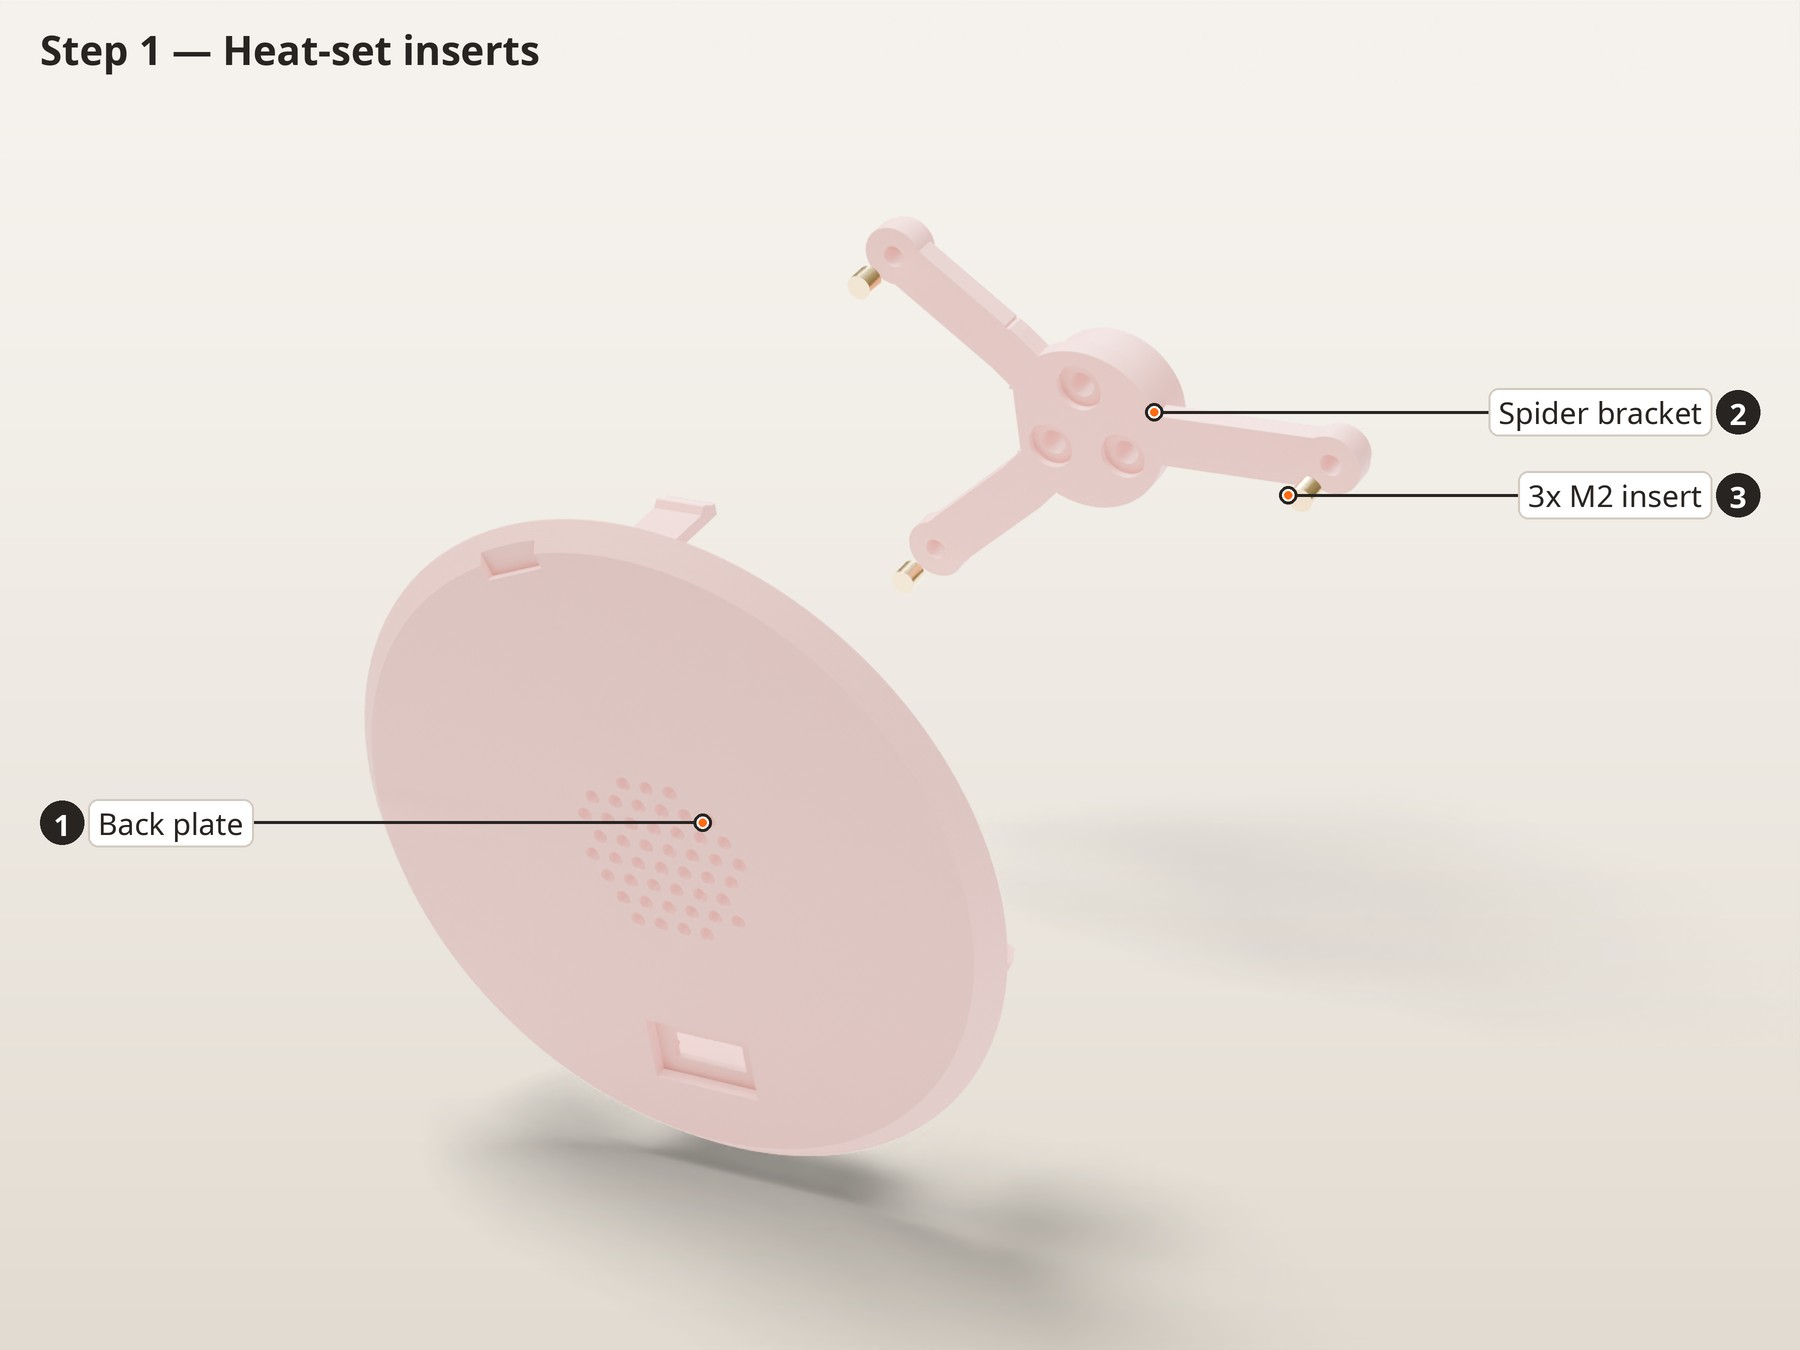
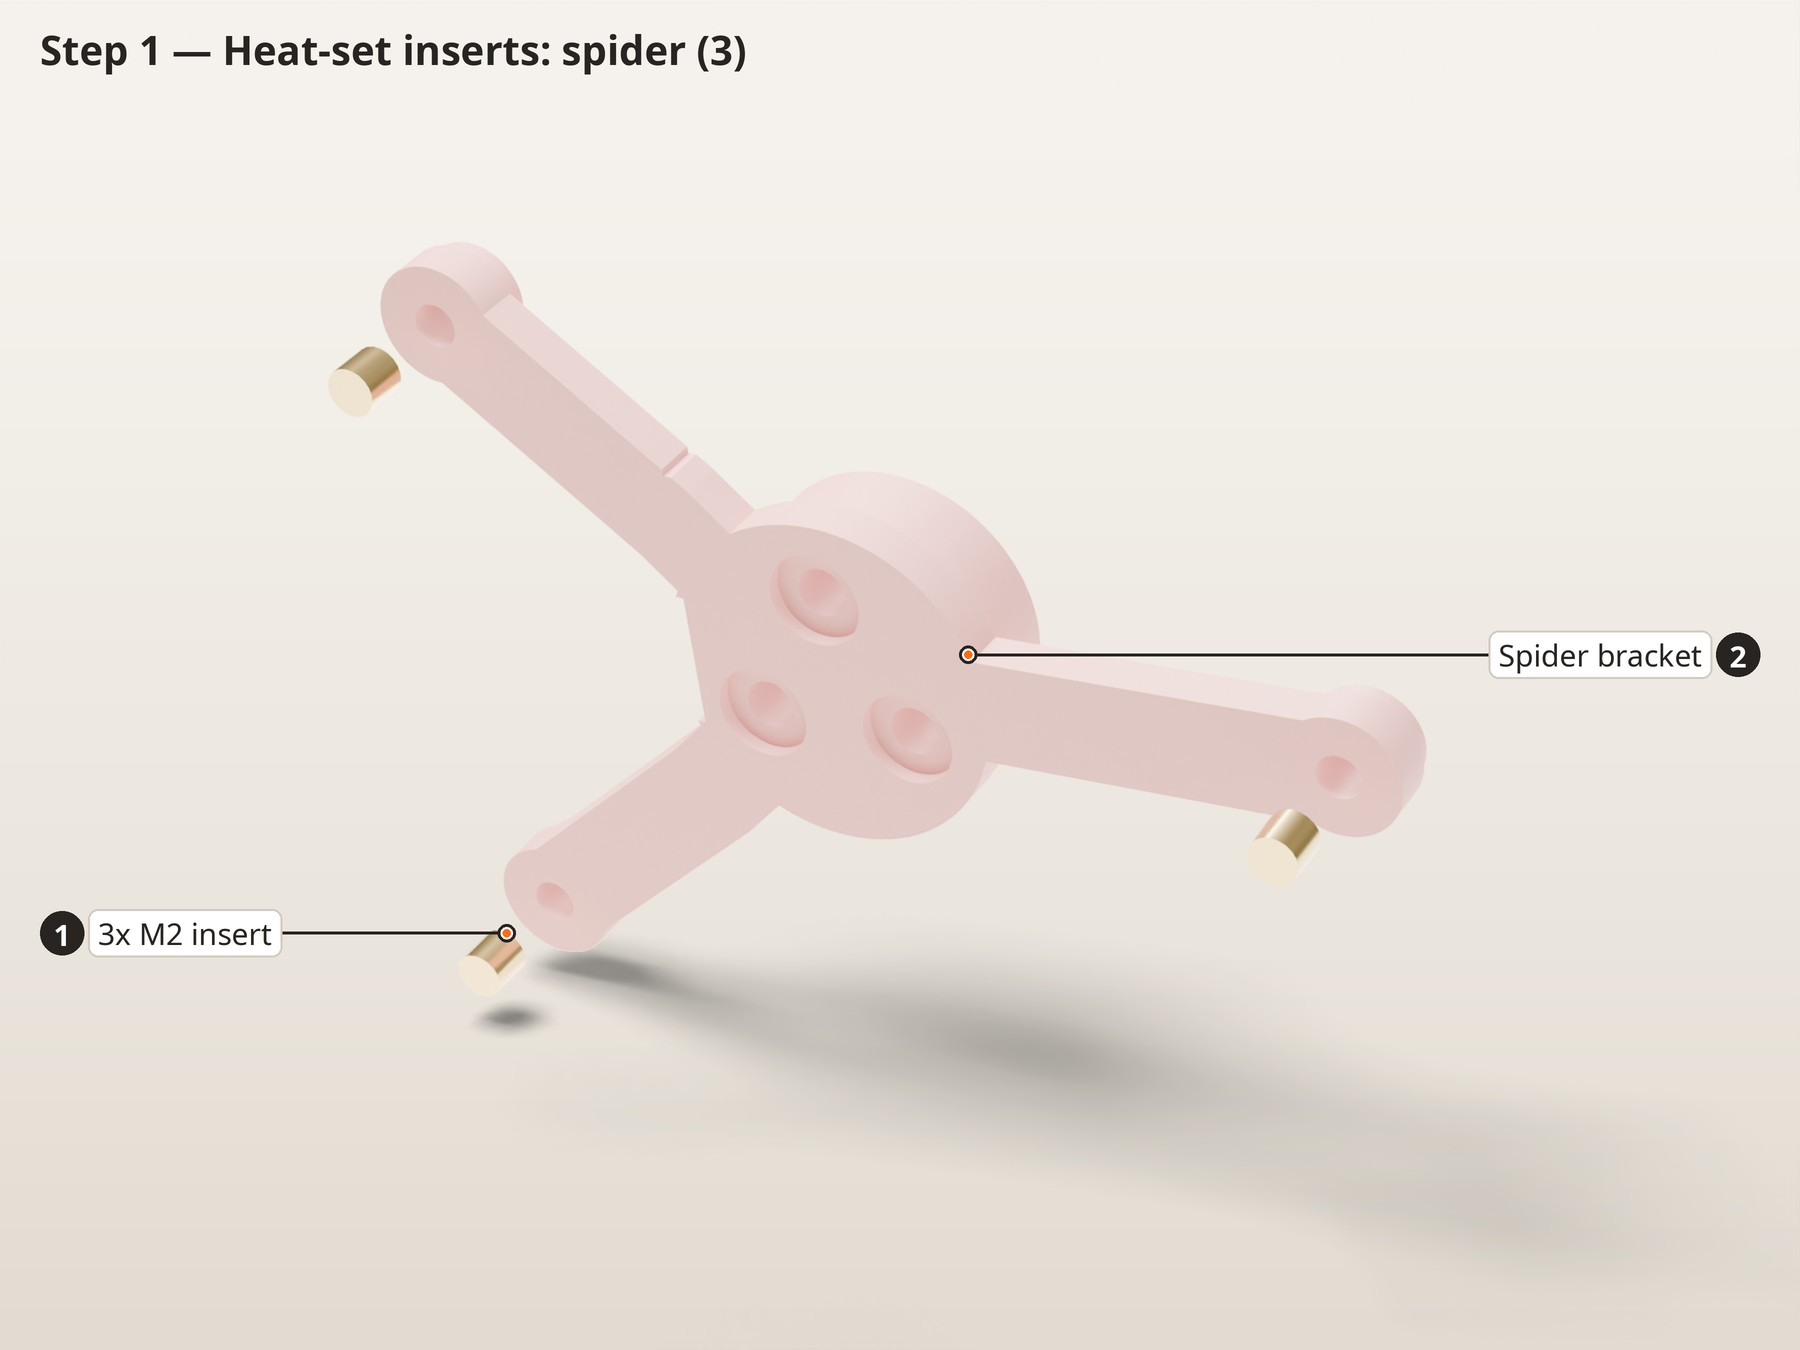
Assembly step 1: show the back plate inserts clearly
The old render looked at the back plate from outside, so its two speaker
bosses and inserts were hidden and unlabelled. Step 1 now has two pictures:
the spider from below, and the back plate's inside face with arrows into
the bosses.

diff --git a/docs/assembly/index.html b/docs/assembly/index.html
@@ -93,9 +93,9 @@ footer{margin-top:56px; padding-top:20px; border-top:1px solid var(--rule); colo
       </section>
       <section class="step" id="step-1">
   <header><span class="num">01</span><h2>Heat-set inserts</h2></header>
-  <figure><img src="img/step_01.jpg" alt="Step 1: Heat-set inserts" loading="lazy" width="1800" height="1350"></figure>
-  <div class="body"><div><h3 class="eyebrow">In this picture</h3><ol class="legend"><li><span class="b">1</span>Back plate</li><li><span class="b">2</span>Spider bracket</li><li><span class="b">3</span>3x M2 insert</li></ol></div>
-    <div><ol class="do"><li>Print the insert test block from plate 2 first. Set one insert in each hole and note which hole (1, 2 or 3 dots) holds best. The middle one is the default; if another fits better, change <code>M2_INSERT_D</code> in <code>cad/voice_clock.py</code> and reprint.</li><li>Set the iron to 230–240 °C for PETG (190–200 °C for PLA). Press each insert straight in until it is flush, then hold a flat tool on it for a few seconds while it cools.</li><li>Spider: 3 × M2 in the underside at the end of each arm. Back plate: 2 × M2 in the speaker bosses.</li><li>That's all of them. The shells and back plate snap together, so they have no inserts.</li></ol><div class="check"><strong>Check before moving on</strong>Run a screw into each insert by hand. It should start straight and stop on the thread, not on a blob of plastic.</div></div>
+  <figure><img src="img/step_01.jpg" alt="Step 1: Heat-set inserts" loading="lazy" width="1800" height="1350"></figure><figure><img src="img/step_01b.jpg" alt="Step 1: Heat-set inserts" loading="lazy" width="1800" height="1350"></figure>
+  <div class="body"><div><h3 class="eyebrow">In this picture</h3><ol class="legend"><li><span class="b">1</span>3x M2 insert</li><li><span class="b">2</span>Spider bracket</li></ol></div><div><h3 class="eyebrow">In this picture</h3><ol class="legend"><li><span class="b">1</span>2x M2 insert</li><li><span class="b">2</span>Back plate</li></ol></div>
+    <div><ol class="do"><li>Print the insert test block from plate 2 first. Set one insert in each hole and note which hole (1, 2 or 3 dots) holds best. The middle one is the default; if another fits better, change <code>M2_INSERT_D</code> in <code>cad/voice_clock.py</code> and reprint.</li><li>Set the iron to 230–240 °C for PETG (190–200 °C for PLA). Press each insert straight in until it is flush, then hold a flat tool on it for a few seconds while it cools.</li><li>Spider (first picture): 3 × M2 in the underside at the end of each arm.</li><li>Back plate (second picture): 2 × M2 in the two round speaker bosses on the inside face, either side of the grille. Don't skip these: the speaker screws into them in step 9.</li><li>That's all of them. The shells and back plate snap together, so they have no inserts.</li></ol><div class="check"><strong>Check before moving on</strong>Run a screw into each insert by hand. It should start straight and stop on the thread, not on a blob of plastic.</div></div>
   </div>
 </section><section class="step" id="step-2">
   <header><span class="num">02</span><h2>Power harness</h2></header>

diff --git a/docs/assembly/build_guide.py b/docs/assembly/build_guide.py
@@ -34,10 +34,11 @@ ELECTRONICS = ["Elecrow CrowPanel 2.1\" rotary display (ESP32-S3)", "Seeed reSpe
 
 # guide step -> (render id or None, title, instructions, check)
 STEPS = [
-    ("step_01", "Heat-set inserts",
+    (("step_01", "step_01b"), "Heat-set inserts",
      ["Print the insert test block from plate 2 first. Set one insert in each hole and note which hole (1, 2 or 3 dots) holds best. The middle one is the default; if another fits better, change <code>M2_INSERT_D</code> in <code>cad/voice_clock.py</code> and reprint.",
       "Set the iron to 230–240 °C for PETG (190–200 °C for PLA). Press each insert straight in until it is flush, then hold a flat tool on it for a few seconds while it cools.",
-      "Spider: 3 × M2 in the underside at the end of each arm. Back plate: 2 × M2 in the speaker bosses.",
+      "Spider (first picture): 3 × M2 in the underside at the end of each arm.",
+      "Back plate (second picture): 2 × M2 in the two round speaker bosses on the inside face, either side of the grille. Don't skip these: the speaker screws into them in step 9.",
       "That's all of them. The shells and back plate snap together, so they have no inserts."],
      "Run a screw into each insert by hand. It should start straight and stop on the thread, not on a blob of plastic."),
     (None, "Power harness",
@@ -212,13 +213,14 @@ def page(img_prefix="img/"):
     hw = "".join(f'<tr><td class="q">{q}</td><td>{esc(a)}</td><td>{esc(b)}</td></tr>' for q, a, b in HARDWARE)
     steps = []
     for i, (rid, title, todo, check) in enumerate(STEPS, 1):
-        fig = (f'<figure><img src="{img_prefix}{rid}.jpg" alt="Step {i}: {esc(title)}" loading="lazy" width="1800" height="1350"></figure>'
-               if rid else WIRING_SVG)
+        rids = (rid,) if isinstance(rid, str) else (rid or ())
+        fig = ("".join(f'<figure><img src="{img_prefix}{r}.jpg" alt="Step {i}: {esc(title)}" loading="lazy" width="1800" height="1350"></figure>'
+                       for r in rids) if rids else WIRING_SVG)
         lis = "".join(f"<li>{esc(t)}</li>" for t in todo)
         steps.append(f'''<section class="step" id="step-{i}">
   <header><span class="num">{i:02d}</span><h2>{esc(title)}</h2></header>
   {fig}
-  <div class="body">{legend_html(rid) if rid else '<div><h3 class="eyebrow">Parts</h3><ul class="plain"><li>USB-C breakout</li><li>22 and 24 AWG wire</li><li>2-pin JST-SM or JST-XH pair</li><li>MX1.25 4-pin pigtail</li><li>Heat shrink</li></ul></div>'}
+  <div class="body">{"".join(legend_html(r) for r in rids) if rids else '<div><h3 class="eyebrow">Parts</h3><ul class="plain"><li>USB-C breakout</li><li>22 and 24 AWG wire</li><li>2-pin JST-SM or JST-XH pair</li><li>MX1.25 4-pin pigtail</li><li>Heat shrink</li></ul></div>'}
     <div><ol class="do">{lis}</ol><div class="check"><strong>Check before moving on</strong>{esc(check)}</div></div>
   </div>
 </section>''')
@@ -266,9 +268,10 @@ def markdown():
     for i, (rid, title, todo, check) in enumerate(STEPS, 1):
         out += ["", f"## {i}. {title}", ""]
         if rid:
-            out += [f"![Step {i}](img/{rid}.jpg)", ""]
-            if LEG.get(rid):
-                out += ["In this picture: " + ", ".join(f"**{it['n']}** {it['label']}" for it in LEG[rid]), ""]
+            for r in ((rid,) if isinstance(rid, str) else rid):
+                out += [f"![Step {i}](img/{r}.jpg)", ""]
+                if LEG.get(r):
+                    out += ["In this picture: " + ", ".join(f"**{it['n']}** {it['label']}" for it in LEG[r]), ""]
         else:
             out += ["```mermaid", "flowchart LR", "  A[USB-C inlet, 5.1k CC] -- 22 AWG --> B[2-pin SM/XH disconnect]",
                     "  B -- 22 AWG --> C[reSpeaker header 5V + GND]", "  B -- 24 AWG + MX1.25 pigtail --> D[CrowPanel power port]", "```", ""]

diff --git a/cad/blender/export_scene.py b/cad/blender/export_scene.py
@@ -120,9 +120,14 @@ def main():
         dict(id="hero_back", title="Back", view=(148, 14), items=items(
             core + ["light_guide", "front_shell", "mute_plunger", "rear_shell", "back_plate", "usb"], []),
              callouts=["back_plate", "usb", "mute_plunger", "rear_shell"], ground=True),
-        dict(id="step_01", title="Heat-set inserts", view=REAR, items=items(
-            [], [("spider", 20), ("ins_spider", 20 - lift), ("back_plate", -30), ("ins_back", -30 + lift)]),
-             callouts=["spider", "ins_spider", "back_plate", "ins_back"]),
+        dict(id="step_01", title="Heat-set inserts: spider (3)", view=REAR, items=items(
+            [], [("spider", 0), ("ins_spider", -lift)]),
+             callouts=["spider", "ins_spider"]),
+        # the back plate's speaker bosses face into the clock: look at its inside face
+        dict(id="step_01b", title="Heat-set inserts: back plate (2)", view=(-25, 38), items=items(
+            [], [("back_plate", 0), ("ins_back", 12)]),
+             callouts=["back_plate", "ins_back"],
+             arrows=[[(x, 0, -26.8), (x, 0, -34.6)] for x in (-18.35, 18.35)]),
         dict(id="step_02", title="Spider bracket onto the CrowPanel", view=REAR, items=items(
             CP, [("spider", -22), ("ins_spider", -22), ("scr_cp", -40)]),
              callouts=["cp_knob", "spider", "ins_spider", "scr_cp"],

diff --git a/cad/blender/callouts.py b/cad/blender/callouts.py
@@ -28,7 +28,7 @@ ORANGE = (255, 106, 19, 255)
 INK = (40, 36, 33, 255)
 SS = 2                                            # supersample for clean lines
 # render id -> step number in the assembly guide (guide step 2 is wiring, no render)
-GUIDE_STEP = {"step_01": 1, "step_02": 3, "step_03": 4, "step_04": 5, "step_05": 6,
+GUIDE_STEP = {"step_01": 1, "step_01b": 1, "step_02": 3, "step_03": 4, "step_04": 5, "step_05": 6,
               "step_06": 7, "step_07": 8, "step_08": 9, "step_09": 10}
 
 

diff --git a/docs/assembly/ASSEMBLY.md b/docs/assembly/ASSEMBLY.md
@@ -28,12 +28,17 @@
 
 ![Step 1](img/step_01.jpg)
 
-In this picture: **1** Back plate, **2** Spider bracket, **3** 3x M2 insert
+In this picture: **1** 3x M2 insert, **2** Spider bracket
+
+![Step 1](img/step_01b.jpg)
+
+In this picture: **1** 2x M2 insert, **2** Back plate
 
 1. Print the insert test block from plate 2 first. Set one insert in each hole and note which hole (1, 2 or 3 dots) holds best. The middle one is the default; if another fits better, change `M2_INSERT_D` in `cad/voice_clock.py` and reprint.
 2. Set the iron to 230–240 °C for PETG (190–200 °C for PLA). Press each insert straight in until it is flush, then hold a flat tool on it for a few seconds while it cools.
-3. Spider: 3 × M2 in the underside at the end of each arm. Back plate: 2 × M2 in the speaker bosses.
-4. That's all of them. The shells and back plate snap together, so they have no inserts.
+3. Spider (first picture): 3 × M2 in the underside at the end of each arm.
+4. Back plate (second picture): 2 × M2 in the two round speaker bosses on the inside face, either side of the grille. Don't skip these: the speaker screws into them in step 9.
+5. That's all of them. The shells and back plate snap together, so they have no inserts.
 
 > **Check:** Run a screw into each insert by hand. It should start straight and stop on the thread, not on a blob of plastic.
 
